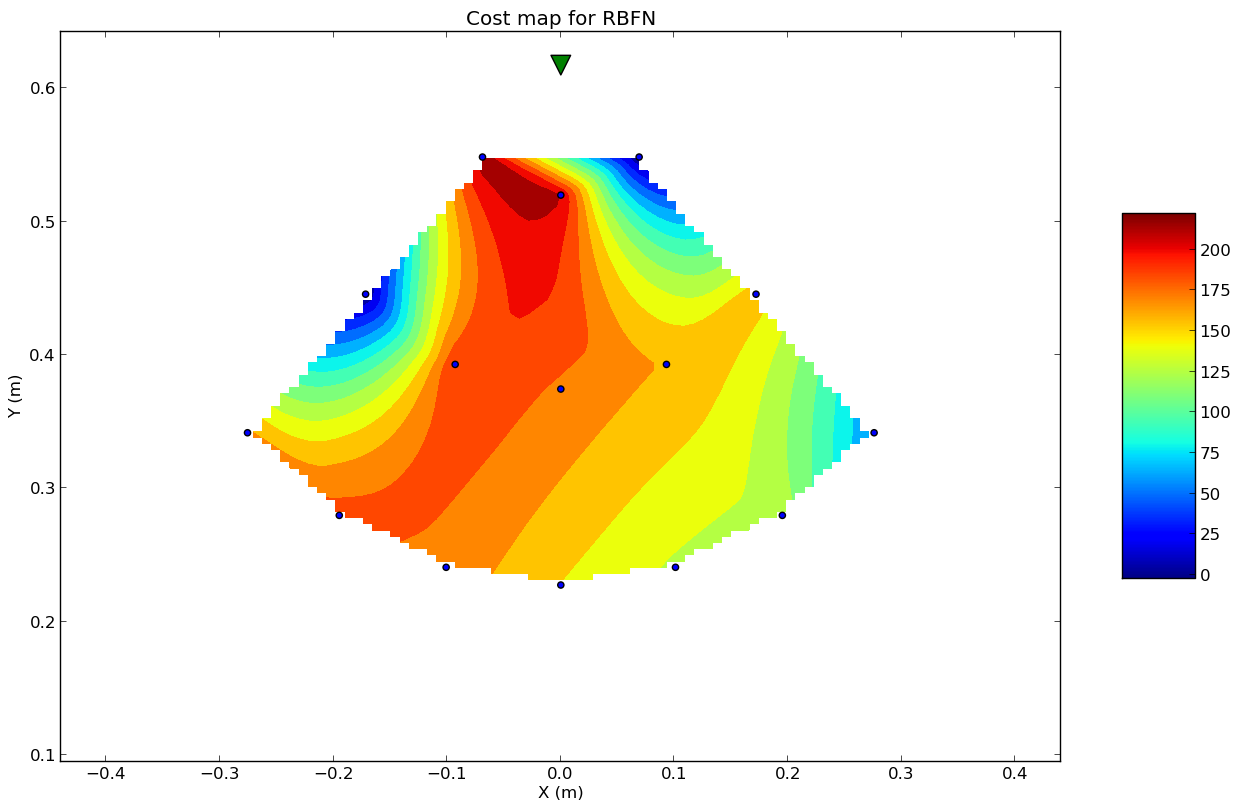
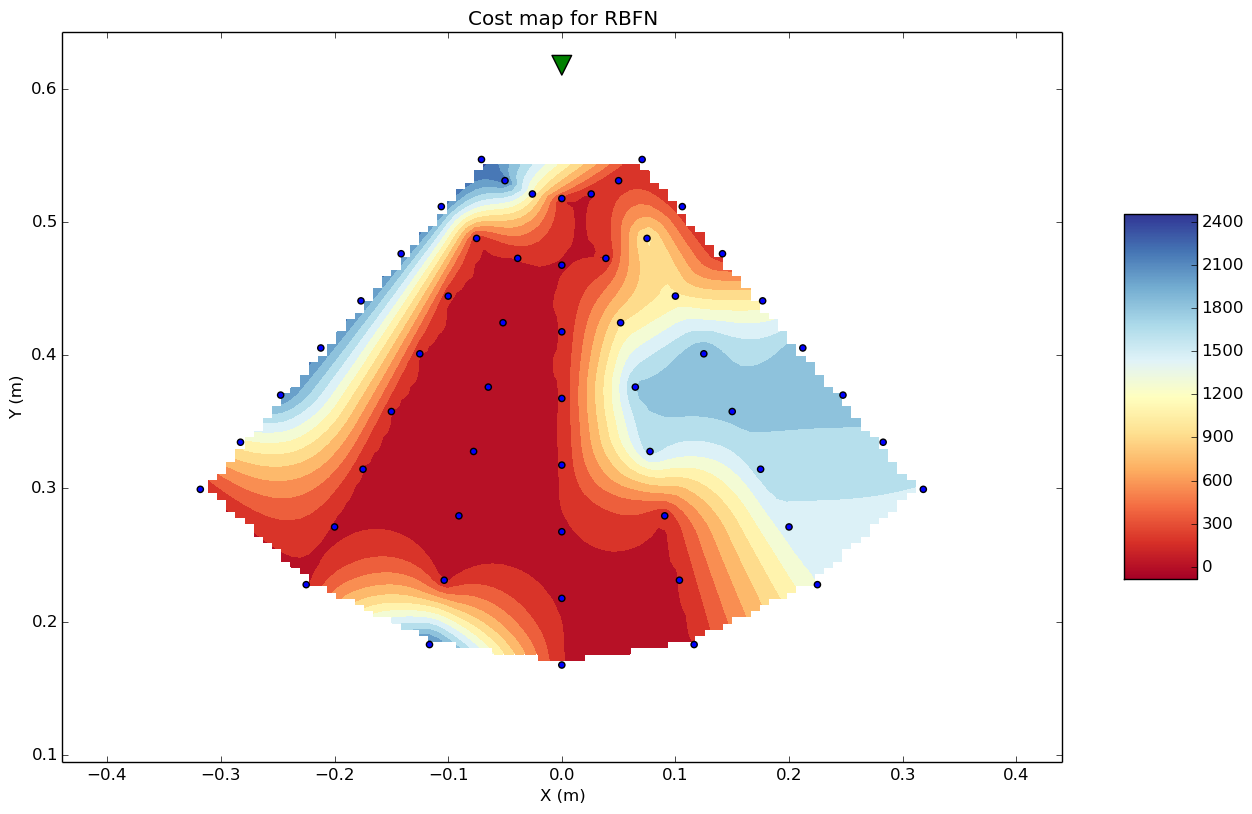
added stronger cost of failure

Changed region(s): [[0.1531, 0.1852, 0.7349, 0.8333], [0.0, 0.0, 0.8574, 0.9877], [0.888, 0.2469, 1.0, 0.7407]]

diff --git a/MotorControlModel/runScript.py b/MotorControlModel/runScript.py
@@ -130,9 +130,7 @@ def chooseFunction(choix):
         name = raw_input('Folder where you want to save the results: ')
         nbret = input("Number of repeat for each trajectory (int): ")
         nbret = int(nbret)
-        c = Chrono()
         generateFromCMAES(nbret, nameTheta, name)
-        c.stop()
     elif choix == 13:
         nameF = raw_input('Folder where the results are saved: ')
         plotVelocityProfile("CMAES",nameF)
@@ -218,7 +216,9 @@ def chooseFunction(choix):
     elif choix == 27:
         plotTrajsInRepo()
 
-def generateInitialPositions():
+
+
+def setPosCircu15():
     rs=ReadSetupFile()
     filename = pathDataFolder + "PosCircu15"
     data = []
@@ -234,6 +234,8 @@ def generateInitialPositions():
     np.savetxt(filename,data)
 
     #------- **** --rayon de 0.1 à 0.6, angle de -pi/5 à -4pi/5 ---------
+def setPosCircu540():
+    rs=ReadSetupFile()
     filename2 = pathDataFolder + "PosCircu540"
     data2 = []
     for j in range(20):
@@ -242,6 +244,28 @@ def generateInitialPositions():
             data2.append(point)
     np.savetxt(filename2,data2)
 
+def setPosCircu56():
+    rs=ReadSetupFile()
+    filename = pathDataFolder + "PosCircu56"
+    data2 = []
+    for j in range(8):
+        for i in range(7):
+            point = [rs.XTarget+ (0.1+j*0.05)*np.cos(-i*np.pi/12-np.pi/4), rs.YTarget+ (0.1+j*0.05)*np.sin(-i*np.pi/12-np.pi/4)]
+            data2.append(point)
+    np.savetxt(filename,data2)
+
+def setPosCircu28():
+    rs=ReadSetupFile()
+    filename = pathDataFolder + "PosCircu28"
+    data2 = []
+    for j in range(4):
+        for i in range(7):
+            point = [rs.XTarget+ (0.1+j*0.1)*np.cos(-i*np.pi/12-np.pi/4), rs.YTarget+ (0.1+j*0.1)*np.sin(-i*np.pi/12-np.pi/4)]
+            data2.append(point)
+    np.savetxt(filename,data2)
+
+def setPosSquare():
+    rs=ReadSetupFile()
     filename3 = pathDataFolder + "PosSquare"
     data3 = []
     for j in range(20):
@@ -295,4 +319,5 @@ def plotRBFNs():
 #generateFromRBFN(3, "Full", "SFull")
 #plotXYPositions("RBFN","SFull","All",True)
 
+setPosCircu28()
 runChoice()

diff --git a/MotorControlModel/Experiments/StateEstimator.py b/MotorControlModel/Experiments/StateEstimator.py
@@ -10,6 +10,8 @@ Description: Used to estimate the current state, reproducing the human control m
 import numpy as np
 import random as rd
 
+from ArmModel.Arm import getDotQAndQFromStateVector
+
 #from ArmModel.MuscularActivation import getNoisyCommand
 
 def isNull(vec):
@@ -78,11 +80,13 @@ class StateEstimator:
             if isNull(U):
                 return state
             inferredState = self.arm.computeNextState(U,inferredState)
-            '''
-            for i in range(2,4):#len(inferredState)):
-                inferredState[i] = inferredState[i]*(1+ np.random.normal(0,0.001))
-            '''
         newEstimState = self.arm.computeNextState(U,self.currentEstimState)
+        qdot,q = getDotQAndQFromStateVector(state)
+        J = self.arm.jacobian(q)
+        vecspeed = np.dot(J,qdot)
+        speed = np.linalg.norm(vecspeed)
+        for i in range(2,4):
+            inferredState[i] = inferredState[i]*(1+ np.random.normal(0,0.01*speed))
         for i in range(4):
             self.currentEstimState[i] = (newEstimState[i] + 0.2 * inferredState[i])/1.2
         return self.currentEstimState

diff --git a/MotorControlModel/Main/Main.py b/MotorControlModel/Main/Main.py
@@ -16,6 +16,7 @@ from multiprocessing.pool import Pool
 
 from Utils.ReadSetupFile import ReadSetupFile
 from Utils.ThetaNormalization import normalization, unNormalization
+from Utils.Chrono import Chrono
 
 from ArmModel.Arm import Arm
 from Experiments.Experiments import Experiments, checkIfFolderExists
@@ -48,9 +49,11 @@ def GenerateRichDataFromTheta(rs, sizeOfTarget, foldername, thetaFile, repeat, s
 def generateFromCMAES(repeat, thetaFile, saveDir = 'Data'):
     rs = ReadSetupFile()
     for el in rs.sizeOfTarget:
+        c = Chrono()
         thetaName = rs.CMAESpath + str(el) + "/" + thetaFile
         saveName = rs.CMAESpath + str(el) + "/" + saveDir + "/"
         GenerateDataFromTheta(rs,el,saveName,thetaName,repeat,True)
+        c.stop()
     print("CMAES:End of generation")
 
 def generateRichDataFromCMAES(repeat, thetaFile, saveDir = 'Data'):

diff --git a/MotorControlModel/Experiments/TrajMaker.py b/MotorControlModel/Experiments/TrajMaker.py
@@ -168,8 +168,13 @@ class TrajMaker:
             t += self.rs.dt
 
         #check if the target is reached and give the reward if yes
-        if coordHand[0] >= -self.sizeOfTarget/2 and coordHand[0] <= self.sizeOfTarget/2 and coordHand[1] >= self.rs.YTarget:
-            cost = self.cc.computeFinalCostReward(cost, t)
+        if coordHand[1] >= self.rs.YTarget:
+            if coordHand[0] >= -self.sizeOfTarget/2 and coordHand[0] <= self.sizeOfTarget/2:
+                cost = self.cc.computeFinalCostReward(cost, t)
+            else:
+                cost = cost - 10000*(coordHand[0])
+        else:
+            cost = cost - 1000
 
         if self.saveTraj == True:
             filename = findFilename(foldername+"Log/","traj",".log")

diff --git a/MotorControlModel/Plot/plotFunctions.py b/MotorControlModel/Plot/plotFunctions.py
@@ -550,8 +550,15 @@ def plotFittsLaw(foldername, rbfn = False):
     slope, intercept, r_value, p_value, std_err = stats.linregress(DI,MT)
     yLR = slope * np.asarray(DI) + intercept
     plt.figure()
+
     for el in timeDistWidth:
-        plt.scatter(np.log2(el[0]/el[1]), el[2])
+            if el[0]<=0.15:
+                plt.scatter(np.log2(el[0]/el[1]), el[2], c ='blue')
+            elif el[0]<=0.28:
+                plt.scatter(np.log2(el[0]/el[1]), el[2], c ='green')
+            else:
+                plt.scatter(np.log2(el[0]/el[1]), el[2], c ='red')
+        
     plt.plot(DI, yLR)
     plt.title("a = " + str(slope) + " b = " + str(intercept) + " r^2 = " + str(r_value**2))
     plt.xlabel("log(D/W)/log(2)")

diff --git a/MotorControlModel/Experiments/Experiments.py b/MotorControlModel/Experiments/Experiments.py
@@ -162,7 +162,7 @@ class Experiments:
             np.savetxt(costfoldername+"cmaesCost.log",self.CMAEScostStore) #Note: inefficient, should rather add to the file
             np.savetxt(costfoldername+"cmaesTime.log",self.CMAESTimeStore) #Note: inefficient, should rather add to the file
 
-        return (300.0-meanCost)/20.0
+        return 10.0*(self.rs.rhoCF-meanCost)/self.rs.rhoCF
     
     
     
